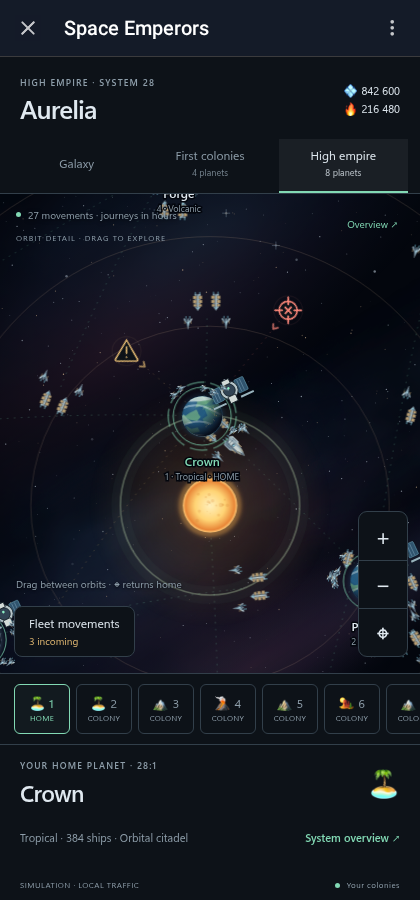
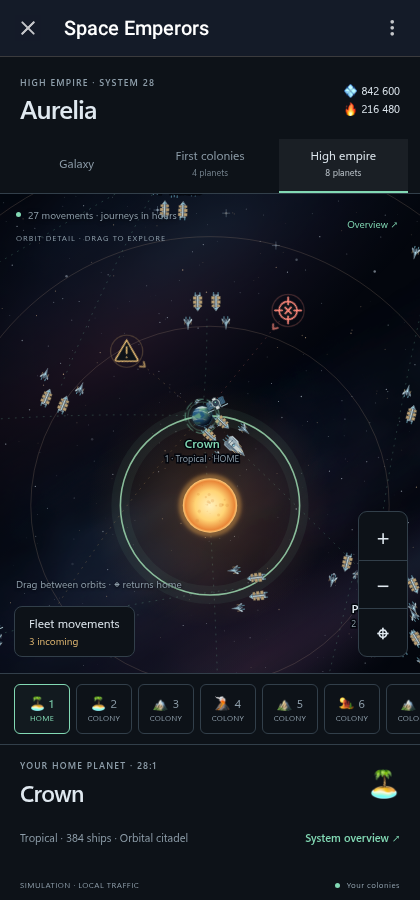
Halve planet artwork in system views

diff --git a/examples/galaxy/app/app.js b/examples/galaxy/app/app.js
@@ -528,10 +528,10 @@ function systemScene() {
 		element("circle", { r: 29, class: "ownership-ring" }, art);
 		element("circle", { r: 34, class: "selected-ring" }, art);
 		planetArt(art, planet, index);
-		element("text", { x: 0, y: 50, "text-anchor": "middle", class: "planet-label" }, group, planet.name);
+		element("text", { x: 0, y: 32, "text-anchor": "middle", class: "planet-label" }, group, planet.name);
 		element(
 			"text",
-			{ x: 0, y: 64, "text-anchor": "middle", class: "coordinate" },
+			{ x: 0, y: 46, "text-anchor": "middle", class: "coordinate" },
 			group,
 			`${index + 1} · ${biomes[planet.biome].label}${planet.home ? " · HOME" : ""}`,
 		);
@@ -827,8 +827,8 @@ function updateCamera() {
 	// Markers and hit areas use screen pixels even when the astronomical distances are zoomed out.
 	for (const { node, item, art } of markers) {
 		node.setAttribute("transform", `translate(${item.x} ${item.y}) scale(${1 / camera.scale})`);
-		// Artwork shrinks gently in overview, while the 64px hit circle remains outside this transform.
-		const size = view === "galaxy" ? 1 : Math.min(1, 0.72 + camera.scale * 0.35);
+		// Half-size planets still shrink gently in overview; the 64px hit circle stays outside this transform.
+		const size = view === "galaxy" ? 1 : 0.5 * Math.min(1, 0.72 + camera.scale * 0.35);
 		art.setAttribute("transform", `scale(${size})`);
 	}
 	svg.dataset.camera = JSON.stringify(camera);
